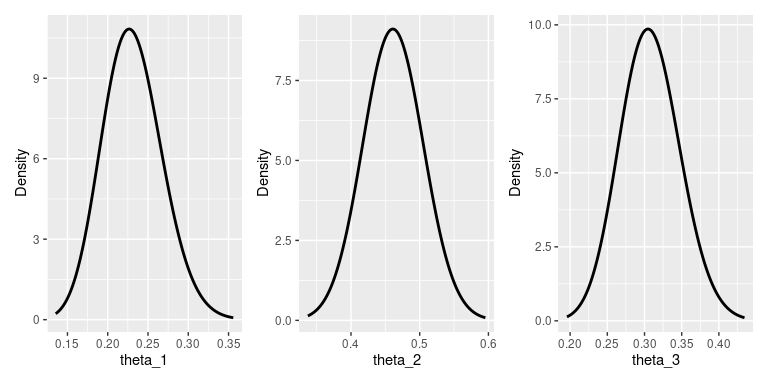
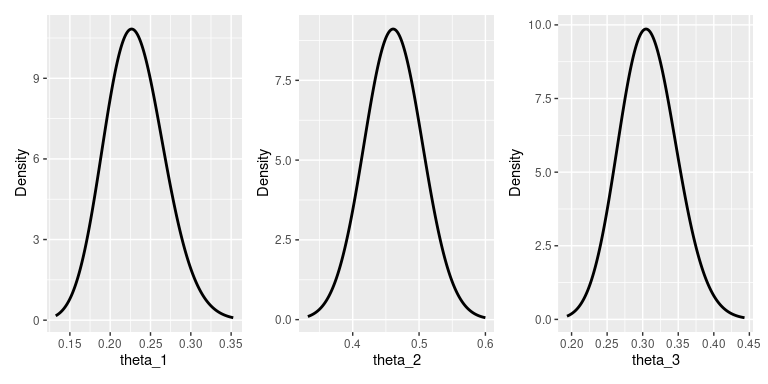
update readme

diff --git a/src/bayes_lm.cpp b/src/bayes_lm.cpp
@@ -11,6 +11,7 @@ using namespace Rcpp;
 //' @param y a vector of response values
 //' @param x a matrix of explanatory variables
 //' @param steps number of samples to obtain
+//' @export
 // [[Rcpp::export]]
 List gibbs_lm (
     NumericVector y,

diff --git a/README.md b/README.md
@@ -45,14 +45,14 @@ summary(post)
 #>    plus standard error of the mean:
 #> 
 #>          Mean      SD  Naive SE Time-series SE
-#> mu     3.0576 0.03664 0.0011587      0.0012404
-#> sigma2 0.1923 0.02203 0.0006968      0.0006968
+#> mu     3.0578 0.03588 0.0011346      0.0011346
+#> sigma2 0.1936 0.02311 0.0007307      0.0006915
 #> 
 #> 2. Quantiles for each variable:
 #> 
-#>          2.5%    25%    50%    75% 97.5%
-#> mu     2.9857 3.0340 3.0581 3.0833 3.128
-#> sigma2 0.1548 0.1769 0.1905 0.2057 0.242
+#>          2.5%    25%    50%    75%  97.5%
+#> mu     2.9867 3.0342 3.0597 3.0832 3.1241
+#> sigma2 0.1535 0.1782 0.1921 0.2074 0.2453
 plot(post)
 ```
 
@@ -64,10 +64,30 @@ In some cases, the posterior can be calculated exactly.
 post <- estimate_proportions(c(20, 50, 30), alpha = c(10, 10, 10))
 summary(post)
 #>          mean       var  2.5% 97.5%
-#> theta_1 0.231 -4.52e-05 0.163 0.306
-#> theta_2 0.462 -3.16e-05 0.379 0.548
-#> theta_3 0.308 -4.07e-05 0.234 0.389
+#> theta_1 0.231 -4.52e-05 0.161 0.306
+#> theta_2 0.462 -3.16e-05 0.377 0.546
+#> theta_3 0.308 -4.07e-05 0.233 0.390
 plot(post)
 ```
 
 <img src="man/figures/README-exact-1.png" width="100%" />
+
+There’s also linear regression:
+
+``` r
+# temporary syntax:
+y <- iris$Sepal.Length
+x <- cbind(iris$Sepal.Width, iris$Sepal.Width^2)
+post <- gibbs_lm(y, x, 100)
+
+par(mfrow = c(1, 2))
+plot(post$posterior$beta)
+plot(x[,1], y)
+apply(post$posterior$beta, 1,
+  function(b)
+    lines(x[,1], cbind(1, x) %*% b, col = "#00990030"))
+```
+
+<img src="man/figures/README-regression-1.png" width="100%" />
+
+    #> NULL
